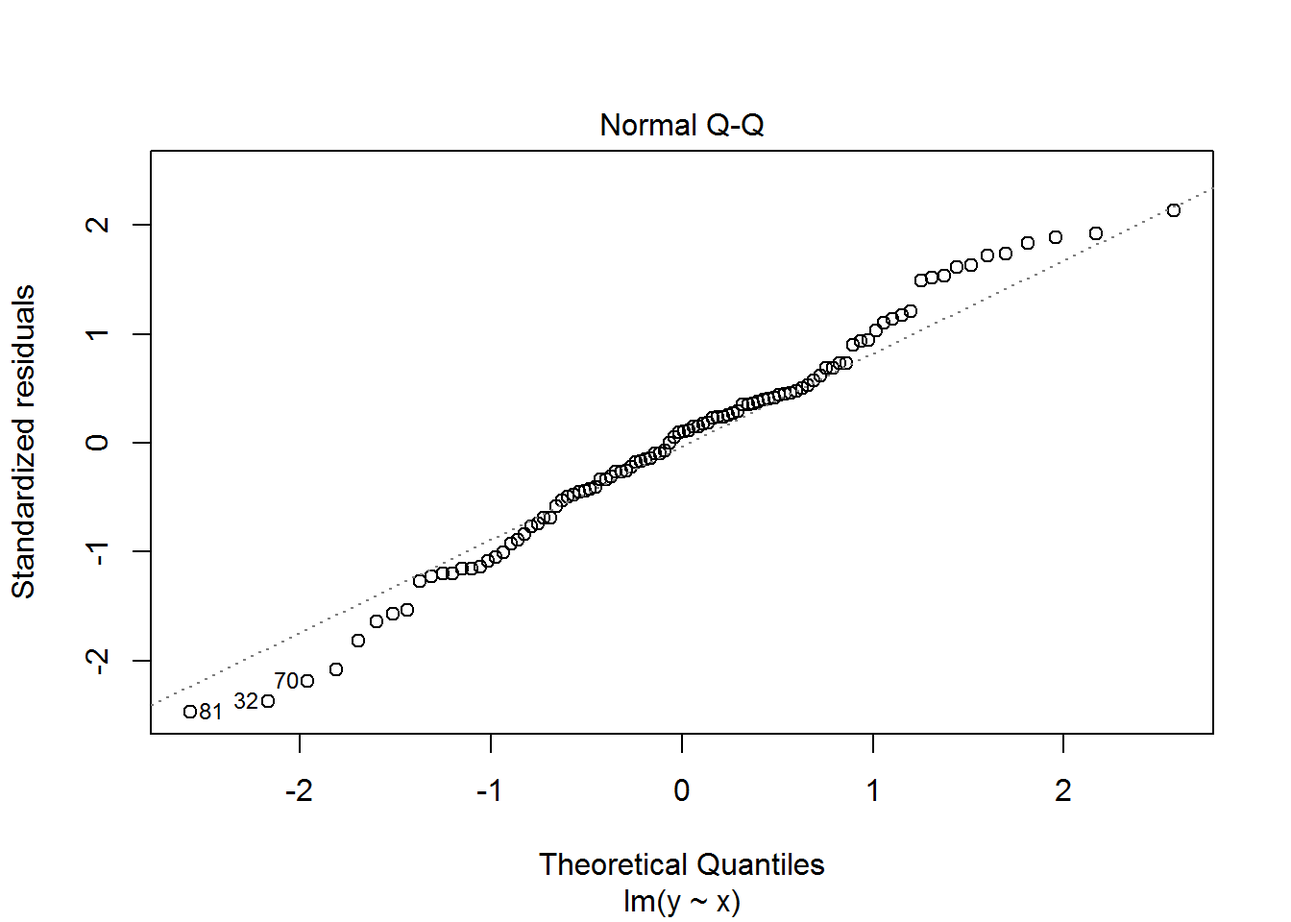
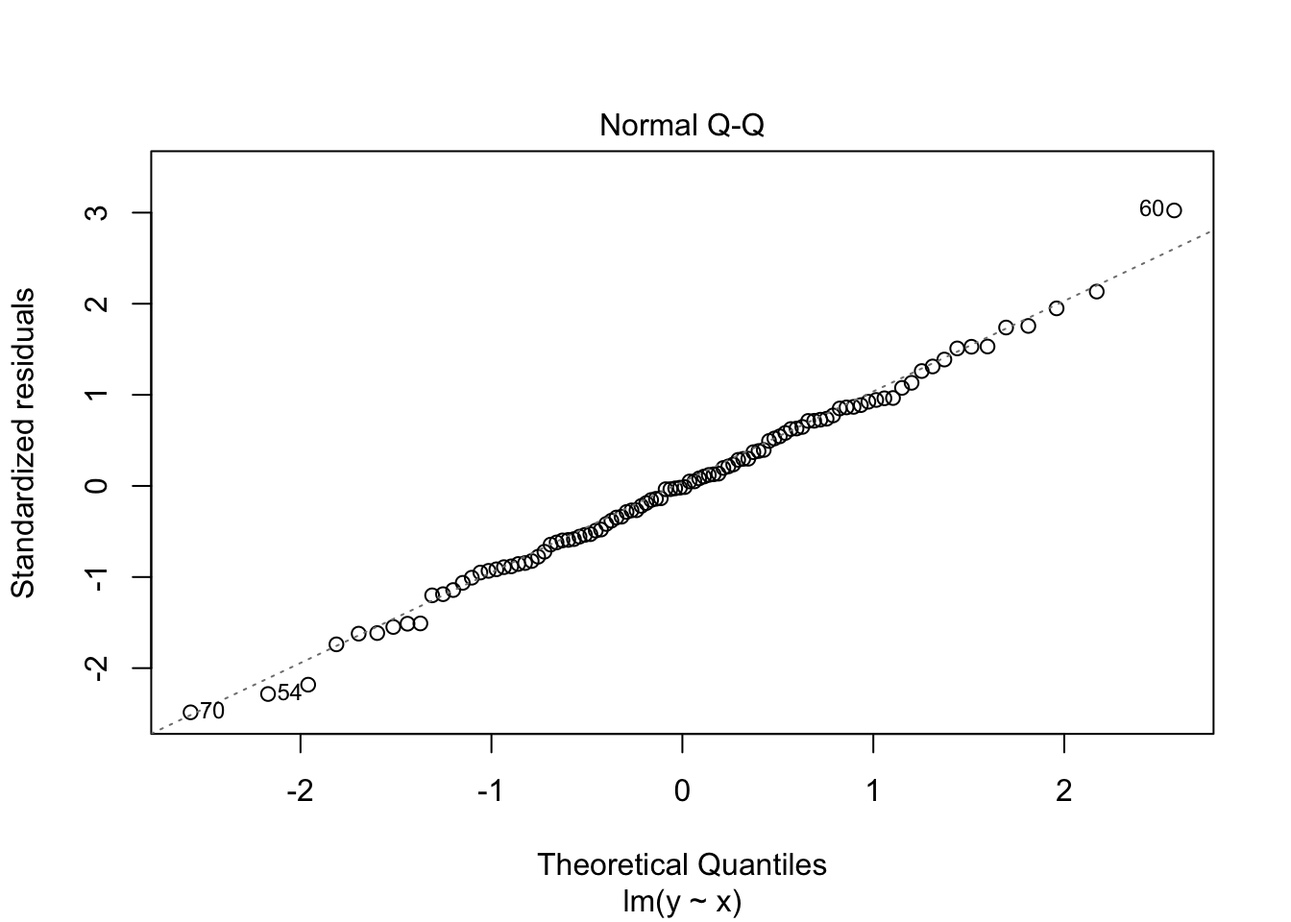
New Version usingr

diff --git a/docs/basic-r-usage.html b/docs/basic-r-usage.html
@@ -6,9 +6,8 @@
   <meta charset="UTF-8">
   <meta http-equiv="X-UA-Compatible" content="IE=edge">
   <title>Research Tools for Social Scientists</title>
-  <meta content="text/html; charset=UTF-8" http-equiv="Content-Type">
   <meta name="description" content="Research Tools for Social Scientists">
-  <meta name="generator" content="bookdown 0.1 and GitBook 2.6.7">
+  <meta name="generator" content="bookdown 0.5 and GitBook 2.6.7">
 
   <meta property="og:title" content="Research Tools for Social Scientists" />
   <meta property="og:type" content="book" />
@@ -25,22 +24,16 @@
 
 <meta name="author" content="Thomas de Graaff">
 
-<meta name="date" content="2016-10-19">
 
-<script type="text/x-mathjax-config">
-MathJax.Hub.Config({
-  TeX: { equationNumbers: { autoNumber: "AMS" } }
-});
-</script>
+<meta name="date" content="2016-10-19">
 
   <meta name="viewport" content="width=device-width, initial-scale=1">
   <meta name="apple-mobile-web-app-capable" content="yes">
   <meta name="apple-mobile-web-app-status-bar-style" content="black">
   
   
-<link rel="prev" href="introduction.html">
+<link rel="prev" href="why-bother.html">
 <link rel="next" href="digression-linear-regression-and-how-to-apply-it.html">
-
 <script src="libs/jquery-2.2.3/jquery.min.js"></script>
 <link href="libs/gitbook-2.6.7/css/style.css" rel="stylesheet" />
 <link href="libs/gitbook-2.6.7/css/plugin-bookdown.css" rel="stylesheet" />
@@ -54,10 +47,6 @@ MathJax.Hub.Config({
 
 
 
-<script src="libs/htmlwidgets-0.5/htmlwidgets.js"></script>
-<script src="libs/d3-3.5.2/d3.min.js"></script>
-<script src="libs/sankey-1/sankey.js"></script>
-<script src="libs/sankeyNetwork-binding-0.2.8/sankeyNetwork.js"></script>
 
 
 <style type="text/css">
@@ -103,34 +92,38 @@ code > span.in { color: #60a0b0; font-weight: bold; font-style: italic; } /* Inf
 <body>
 
 
+
   <div class="book without-animation with-summary font-size-2 font-family-1" data-basepath=".">
 
     <div class="book-summary">
       <nav role="navigation">
 
 <ul class="summary">
-<li class="chapter" data-level="1" data-path="index.html"><a href="index.html"><i class="fa fa-check"></i><b>1</b> Preface</a></li>
-<li class="chapter" data-level="2" data-path="introduction.html"><a href="introduction.html"><i class="fa fa-check"></i><b>2</b> Introduction</a><ul>
-<li class="chapter" data-level="2.1" data-path="introduction.html"><a href="introduction.html#why-do-we-need-all-this"><i class="fa fa-check"></i><b>2.1</b> Why do we need all this?</a></li>
-<li class="chapter" data-level="2.2" data-path="introduction.html"><a href="introduction.html#why-use-r-and-not-other-applications"><i class="fa fa-check"></i><b>2.2</b> Why use <code>R</code> and not other applications?</a></li>
-<li class="chapter" data-level="2.3" data-path="introduction.html"><a href="introduction.html#regression-analysis-not-again"><i class="fa fa-check"></i><b>2.3</b> Regression analysis: not again!</a></li>
-<li class="chapter" data-level="2.4" data-path="introduction.html"><a href="introduction.html#structure-of-the-book"><i class="fa fa-check"></i><b>2.4</b> Structure of the book</a></li>
+<li class="chapter" data-level="1" data-path="index.html"><a href="index.html"><i class="fa fa-check"></i><b>1</b> Introduction</a><ul>
+<li class="chapter" data-level="1.1" data-path="index.html"><a href="index.html#preface"><i class="fa fa-check"></i><b>1.1</b> Preface</a></li>
+<li class="chapter" data-level="1.2" data-path="index.html"><a href="index.html#where-to-get-r"><i class="fa fa-check"></i><b>1.2</b> Where to get <code>R</code></a></li>
+<li class="chapter" data-level="1.3" data-path="index.html"><a href="index.html#structure-of-the-book"><i class="fa fa-check"></i><b>1.3</b> Structure of the book</a></li>
+</ul></li>
+<li class="chapter" data-level="2" data-path="why-bother.html"><a href="why-bother.html"><i class="fa fa-check"></i><b>2</b> Why bother?</a><ul>
+<li class="chapter" data-level="2.1" data-path="why-bother.html"><a href="why-bother.html#why-do-we-need-all-this"><i class="fa fa-check"></i><b>2.1</b> Why do we need all this?</a></li>
+<li class="chapter" data-level="2.2" data-path="why-bother.html"><a href="why-bother.html#why-use-r-and-not-other-applications"><i class="fa fa-check"></i><b>2.2</b> Why use <code>R</code> and not other applications?</a></li>
+<li class="chapter" data-level="2.3" data-path="why-bother.html"><a href="why-bother.html#r-markdown"><i class="fa fa-check"></i><b>2.3</b> R Markdown</a></li>
+<li class="chapter" data-level="2.4" data-path="why-bother.html"><a href="why-bother.html#regression-analysis-not-again"><i class="fa fa-check"></i><b>2.4</b> Regression analysis: not again!</a></li>
 </ul></li>
 <li class="chapter" data-level="3" data-path="basic-r-usage.html"><a href="basic-r-usage.html"><i class="fa fa-check"></i><b>3</b> Basic <code>R</code> Usage</a><ul>
-<li class="chapter" data-level="3.1" data-path="basic-r-usage.html"><a href="basic-r-usage.html#where-to-get-it"><i class="fa fa-check"></i><b>3.1</b> Where to get it</a></li>
-<li class="chapter" data-level="3.2" data-path="basic-r-usage.html"><a href="basic-r-usage.html#for-absolute-beginners"><i class="fa fa-check"></i><b>3.2</b> For absolute beginners</a></li>
-<li class="chapter" data-level="3.3" data-path="basic-r-usage.html"><a href="basic-r-usage.html#how-to-use-it"><i class="fa fa-check"></i><b>3.3</b> How to use it</a><ul>
-<li class="chapter" data-level="3.3.1" data-path="basic-r-usage.html"><a href="basic-r-usage.html#subsec:scripts"><i class="fa fa-check"></i><b>3.3.1</b> Scripts</a></li>
-<li class="chapter" data-level="3.3.2" data-path="basic-r-usage.html"><a href="basic-r-usage.html#help"><i class="fa fa-check"></i><b>3.3.2</b> Help!</a></li>
-<li class="chapter" data-level="3.3.3" data-path="basic-r-usage.html"><a href="basic-r-usage.html#subsec:packages"><i class="fa fa-check"></i><b>3.3.3</b> Packages</a></li>
-<li class="chapter" data-level="3.3.4" data-path="basic-r-usage.html"><a href="basic-r-usage.html#using-comments"><i class="fa fa-check"></i><b>3.3.4</b> Using comments</a></li>
+<li class="chapter" data-level="3.1" data-path="basic-r-usage.html"><a href="basic-r-usage.html#for-absolute-beginners"><i class="fa fa-check"></i><b>3.1</b> For absolute beginners</a></li>
+<li class="chapter" data-level="3.2" data-path="basic-r-usage.html"><a href="basic-r-usage.html#how-to-use-it"><i class="fa fa-check"></i><b>3.2</b> How to use it</a><ul>
+<li class="chapter" data-level="3.2.1" data-path="basic-r-usage.html"><a href="basic-r-usage.html#subsec:scripts"><i class="fa fa-check"></i><b>3.2.1</b> Scripts</a></li>
+<li class="chapter" data-level="3.2.2" data-path="basic-r-usage.html"><a href="basic-r-usage.html#help"><i class="fa fa-check"></i><b>3.2.2</b> Help!</a></li>
+<li class="chapter" data-level="3.2.3" data-path="basic-r-usage.html"><a href="basic-r-usage.html#subsec:packages"><i class="fa fa-check"></i><b>3.2.3</b> Packages</a></li>
+<li class="chapter" data-level="3.2.4" data-path="basic-r-usage.html"><a href="basic-r-usage.html#using-comments"><i class="fa fa-check"></i><b>3.2.4</b> Using comments</a></li>
 </ul></li>
-<li class="chapter" data-level="3.4" data-path="basic-r-usage.html"><a href="basic-r-usage.html#reading-and-writing-data"><i class="fa fa-check"></i><b>3.4</b> Reading and writing data</a></li>
-<li class="chapter" data-level="3.5" data-path="basic-r-usage.html"><a href="basic-r-usage.html#ehmmm-dataframes"><i class="fa fa-check"></i><b>3.5</b> Ehmmm, dataframes</a></li>
-<li class="chapter" data-level="3.6" data-path="basic-r-usage.html"><a href="basic-r-usage.html#functions"><i class="fa fa-check"></i><b>3.6</b> Functions</a></li>
-<li class="chapter" data-level="3.7" data-path="basic-r-usage.html"><a href="basic-r-usage.html#regression-modeling"><i class="fa fa-check"></i><b>3.7</b> Regression modeling</a></li>
-<li class="chapter" data-level="3.8" data-path="basic-r-usage.html"><a href="basic-r-usage.html#making-plots"><i class="fa fa-check"></i><b>3.8</b> Making plots</a></li>
-<li class="chapter" data-level="3.9" data-path="basic-r-usage.html"><a href="basic-r-usage.html#recap"><i class="fa fa-check"></i><b>3.9</b> Recap</a></li>
+<li class="chapter" data-level="3.3" data-path="basic-r-usage.html"><a href="basic-r-usage.html#reading-and-writing-data"><i class="fa fa-check"></i><b>3.3</b> Reading and writing data</a></li>
+<li class="chapter" data-level="3.4" data-path="basic-r-usage.html"><a href="basic-r-usage.html#ehmmm-dataframes"><i class="fa fa-check"></i><b>3.4</b> Ehmmm, dataframes</a></li>
+<li class="chapter" data-level="3.5" data-path="basic-r-usage.html"><a href="basic-r-usage.html#functions"><i class="fa fa-check"></i><b>3.5</b> Functions</a></li>
+<li class="chapter" data-level="3.6" data-path="basic-r-usage.html"><a href="basic-r-usage.html#regression-modeling"><i class="fa fa-check"></i><b>3.6</b> Regression modeling</a></li>
+<li class="chapter" data-level="3.7" data-path="basic-r-usage.html"><a href="basic-r-usage.html#making-plots"><i class="fa fa-check"></i><b>3.7</b> Making plots</a></li>
+<li class="chapter" data-level="3.8" data-path="basic-r-usage.html"><a href="basic-r-usage.html#recap"><i class="fa fa-check"></i><b>3.8</b> Recap</a></li>
 </ul></li>
 <li class="chapter" data-level="4" data-path="digression-linear-regression-and-how-to-apply-it.html"><a href="digression-linear-regression-and-how-to-apply-it.html"><i class="fa fa-check"></i><b>4</b> Digression: Linear Regression and how to apply it</a><ul>
 <li class="chapter" data-level="4.1" data-path="digression-linear-regression-and-how-to-apply-it.html"><a href="digression-linear-regression-and-how-to-apply-it.html#sec:theory"><i class="fa fa-check"></i><b>4.1</b> Theoretical background</a><ul>
@@ -182,13 +175,8 @@ code > span.in { color: #60a0b0; font-weight: bold; font-style: italic; } /* Inf
 <span class="kw">library</span>(<span class="st">&quot;ggplot2&quot;</span>)
 <span class="kw">library</span>(<span class="st">&quot;dplyr&quot;</span>)</code></pre></div>
 <p>The <code>R</code> programming language and software environment for statistical computing is an implementation of the proprietary <code>S</code> programming language by Ross Ithaka and Robert Gentleman in 1992. It quickly gained in popularity (see, e.g, this Nature article from 2014 <a href="http://www.nature.com/news/programming-tools-adventures-with-r-1.16609">Programming tools: Adventures with R</a>) and now has more than 8,000 user contributed packages (see as well the blog piece <a href="https://www.r-bloggers.com/on-the-growth-of-cran-packages/">On the growth of CRAN packages</a>).</p>
-<div id="where-to-get-it" class="section level2">
-<h2><span class="header-section-number">3.1</span> Where to get it</h2>
-<p>First, you need to install <code>R</code> itself. You can do this by downloading this from <a href="http://cran.xl-mirror.nl/">CRAN</a> (we choose here the server from the Netherlands). Choose your appropriate operating system, choose the <code>base</code> system, download <code>R</code> and install it. That’s it!</p>
-<p>The base distribution of <code>R</code> comes with a built-in editor, where you can write your script (more about scripts in subsection <a href="basic-r-usage.html#subsec:scripts">3.3.1</a>). This editor is however <em>very</em> basic. Therefore, it is very much advised that you download and install the Open Source editor <a href="https://www.rstudio.com/products/rstudio/download/"><code>RStudio</code></a> as well. Again, choose your operating system and just install the latest version. The very short video (1.5 minutes) on RStudio’s <a href="https://www.rstudio.com/products/rstudio/">website</a> gives an overview of the <em>basic</em> features (it can do quite some more stuff).</p>
-</div>
 <div id="for-absolute-beginners" class="section level2">
-<h2><span class="header-section-number">3.2</span> For absolute beginners</h2>
+<h2><span class="header-section-number">3.1</span> For absolute beginners</h2>
 <p>At the moment there are <em>many</em> tutorials, blogs, youtube clips, and background materials about using <code>R</code> on the internet. I therefore do not intend to write a complete handbook, but focus instead on what I need for my courses. Moreover, I do not intend to teach the very basic stuff. There is very good tutorial package out there called Swirl (see as well the website: <a href="http://swirlstats.com/students.html" class="uri">http://swirlstats.com/students.html</a>). I very much recommend using this package for absolute beginners. The way to do this is rather simple. First install the package by typing:</p>
 <div class="sourceCode"><pre class="sourceCode r"><code class="sourceCode r"><span class="kw">install.packages</span>(<span class="st">&quot;swirl&quot;</span>)</code></pre></div>
 <p>then start Swirl by first loading the package:</p>
@@ -198,22 +186,22 @@ code > span.in { color: #60a0b0; font-weight: bold; font-style: italic; } /* Inf
 <p>In the first menu choose <code>R Programming</code>. Now, there are 15 lessons. I find the first four the most useful (Basic Building Block, Workspace and Files, Sequences of Numbers, Vectors), but others are very useful as well to go through. The command <code>main()</code> by the way brings you always back to the main menu, and do not go for the credits on coursera (that is now a paid online course).</p>
 </div>
 <div id="how-to-use-it" class="section level2">
-<h2><span class="header-section-number">3.3</span> How to use it</h2>
+<h2><span class="header-section-number">3.2</span> How to use it</h2>
 <p><code>R</code> is truly a programming language in the sense that there is no graphical user interface (GUI) involved. You need to type your own commands. And for beginners this sort of sucks. It seems slower, you have no idea which commands to type in, and you frequently make many mistakes. However, when you start to use it more, speed of getting things done goes up (sometimes exponentially), you have a better grasp on the basic commands, and the number of mistakes go down. In contrast with programs such as <code>Excel</code> or <code>SPSS</code>, there are two big differences: (<em>i</em>) you use scripts and (<em>ii</em>) you make frequently use of packages which are essentially written by other <code>R</code> users.</p>
 <div id="subsec:scripts" class="section level3">
-<h3><span class="header-section-number">3.3.1</span> Scripts</h3>
+<h3><span class="header-section-number">3.2.1</span> Scripts</h3>
 <p>The use of scripts or program files is somewhat alien to most. Although <code>Stata</code> also makes use of so-called <code>do</code> files. You start a new script by clicking on File &gt; New Script (<code>R</code> editor) or File &gt; New File &gt; New Script (<code>RStudio</code>). You now have a new <em>empty</em> file (which you have to save from time to time). If you fill in this file with commands, you are actually programming. The <strong>huge</strong> benefit of this procedure is that you record what you have done and that you can easily change something.</p>
 <p>As an example, assume that somebody gives you a dataset with 2 variables and ask you to analyse this dataset. With <code>SPSS</code> you read this dataset in and then click on various butttons so you get some output. Now, assume further that this person actually has forgotten a variable (this happens more often than you think) and gives you a new dataset with 3 variables. Then you have to do all the clicking again (and hopefully you remembered on which buttons you actually clicked).</p>
 <p>When you have a script file you only have to change the code in 1 or 2 places and run it all again. No sweat! So, writing up all the commmands and save it for later, might cost you some time in the <strong>beginning</strong>, but there are <strong>huge</strong> time savers later on! To run a script you simply need to press the button Edit &gt; Run all (<code>R</code> editor) or Code &gt; Run Region &gt; Run All (<code>RStudio</code>). Nobody does that however, because there are numerous Keyboard Shortcuts (I advise you to learn them, because they make you considerably faster. Actually, most Keyboard Shortcuts work in a wide variety of editors–even in <code>Word</code>.)</p>
 </div>
 <div id="help" class="section level3">
-<h3><span class="header-section-number">3.3.2</span> Help!</h3>
+<h3><span class="header-section-number">3.2.2</span> Help!</h3>
 <p>Sometimes you have found a command you would think you could use, but you do not know how, then you need to use <code>?</code> operator in front of the command. For instance, you know that the command <code>c()</code> could be useful, but how? Then type:</p>
 <div class="sourceCode"><pre class="sourceCode r"><code class="sourceCode r">?<span class="kw">c</span>()</code></pre></div>
 <p>And the appropiate documentation will pop up.</p>
 </div>
 <div id="subsec:packages" class="section level3">
-<h3><span class="header-section-number">3.3.3</span> Packages</h3>
+<h3><span class="header-section-number">3.2.3</span> Packages</h3>
 <p><code>R</code> (as many other software applications nowadays) depends heavily on packages written by other parties, usually users of <code>R</code>. There are now many packages out there. You can find the ‘official’ ones on <a href="https://cran.r-project.org/web/packages/available_packages_by_name.html">the CRAN website</a>, but there are many more. Packages have to be installed (both <code>R</code> editor and <code>RStudio</code> have a separate package manager) and afterwards loaded. Say, for instance we want to use the awesome <code>ggplot2</code> package (a package to make plots look nice, actually to make more elaborate plots but anyway), then to install and load the package we give the commands:</p>
 <div class="sourceCode"><pre class="sourceCode r"><code class="sourceCode r"><span class="kw">install.packages</span>(<span class="st">&quot;ggplot2&quot;</span>)
 <span class="kw">library</span>(<span class="st">&quot;ggplot2&quot;</span>)</code></pre></div>
@@ -221,13 +209,13 @@ code > span.in { color: #60a0b0; font-weight: bold; font-style: italic; } /* Inf
 <p>Gradually, we come across some useful packages. Those we will use in a chapter will always be listed at the start of the chapter.</p>
 </div>
 <div id="using-comments" class="section level3">
-<h3><span class="header-section-number">3.3.4</span> Using comments</h3>
+<h3><span class="header-section-number">3.2.4</span> Using comments</h3>
 <p>A final word in this section about the use of comments. <strong>Do it!</strong>. Really, it will make your future life much easier if you have documented what you have done. You can insert comments by using the <code>#</code> operator (everything after the hashtag is a comment), so, e.g.,</p>
 <div class="sourceCode"><pre class="sourceCode r"><code class="sourceCode r"><span class="dv">2+2</span> <span class="co"># always wanted to know about the outcome, but were afraid to ask</span></code></pre></div>
 </div>
 </div>
 <div id="reading-and-writing-data" class="section level2">
-<h2><span class="header-section-number">3.4</span> Reading and writing data</h2>
+<h2><span class="header-section-number">3.3</span> Reading and writing data</h2>
 <p>To properly do statistics one needs data (duh!). Luckily, there are numerous ways to get data in <code>R</code>.</p>
 <p>When you just have a <code>csv</code> text file (comma separated file), it is easy, you just type:</p>
 <div class="sourceCode"><pre class="sourceCode r"><code class="sourceCode r">df &lt;-<span class="st"> </span><span class="kw">read.csv</span>(<span class="dt">file=</span><span class="st">&quot;my_data.csv&quot;</span>, <span class="dt">header =</span> <span class="ot">TRUE</span>)</code></pre></div>
@@ -242,7 +230,7 @@ z &lt;-<span class="st"> </span><span class="kw">import</span>(<span class="st">
 <p>and all dataframes <code>x</code>, <code>y</code> <code>z</code> should be identical.</p>
 </div>
 <div id="ehmmm-dataframes" class="section level2">
-<h2><span class="header-section-number">3.5</span> Ehmmm, dataframes</h2>
+<h2><span class="header-section-number">3.4</span> Ehmmm, dataframes</h2>
 <p>I already talked a bit about dataframes, but have not yet explained what they are. Simply, it is your data. Lets construct a simple dataframe:</p>
 <div class="sourceCode"><pre class="sourceCode r"><code class="sourceCode r">Names  &lt;-<span class="st"> </span><span class="kw">c</span>(<span class="st">&quot;Thomas&quot;</span>, <span class="st">&quot;Erik&quot;</span>, <span class="st">&quot;Mark&quot;</span>, <span class="st">&quot;Eveline&quot;</span>)
 Grades &lt;-<span class="st"> </span><span class="kw">c</span>(<span class="dv">5</span>, <span class="dv">8</span>, <span class="fl">6.5</span>, <span class="dv">7</span>)
@@ -298,7 +286,7 @@ df_grades &lt;-<span class="st"> </span><span class="kw">data.frame</span>(Names
 ## 4 Eveline    7.0   TRUE            8.0   1.945910           2.945910</code></pre>
 </div>
 <div id="functions" class="section level2">
-<h2><span class="header-section-number">3.6</span> Functions</h2>
+<h2><span class="header-section-number">3.5</span> Functions</h2>
 <p>I already referred to the concepts of functions above. Everything in <code>R</code> that has the symbols <code>()</code> just behind a word denotes a function. And most things in <code>R</code> are really a function. Examples you have already seen above are <code>c()</code>, <code>head()</code>, and <code>read.csv()</code>. As a user, you can define your own functions. (But always do this before you ‘call’ this function.) Suppose, we want to create a function that calculates the function <span class="math inline">\(z = x^2 + y^2 + 10*x + 12* y - 10\)</span> for every <span class="math inline">\(x\)</span> and <span class="math inline">\(y\)</span> we would like to use. For instance, we can first define the function (let’s call the function ‘zvalue’):</p>
 <div class="sourceCode"><pre class="sourceCode r"><code class="sourceCode r">zvalue &lt;-<span class="st"> </span>function(x,y){
   <span class="kw">return</span>(x^<span class="dv">2</span> +<span class="st"> </span>y^<span class="dv">2</span> +<span class="st"> </span><span class="dv">10</span>*x +<span class="st"> </span><span class="dv">12</span>*<span class="st"> </span>y -<span class="st"> </span><span class="dv">10</span>)
@@ -309,7 +297,7 @@ df_grades &lt;-<span class="st"> </span><span class="kw">data.frame</span>(Names
 <pre><code>## [1] 42</code></pre>
 </div>
 <div id="regression-modeling" class="section level2">
-<h2><span class="header-section-number">3.7</span> Regression modeling</h2>
+<h2><span class="header-section-number">3.6</span> Regression modeling</h2>
 <p>Before we start laying-out how to do regression modeling in <code>R</code>, we first need data. And for this purpose we will simulate our data by the following commands:</p>
 <div class="sourceCode"><pre class="sourceCode r"><code class="sourceCode r">x &lt;-<span class="st"> </span><span class="kw">runif</span>(<span class="dv">100</span>, <span class="dt">min =</span> <span class="dv">0</span>, <span class="dt">max =</span> <span class="dv">1</span>) <span class="co"># create 100 uniformly distributed numbers in interval (0,1)</span>
 y &lt;-<span class="st"> </span><span class="dv">2</span> +<span class="st"> </span><span class="dv">6</span>*x +<span class="st"> </span><span class="kw">rnorm</span>(<span class="dv">100</span>, <span class="dt">mean =</span> <span class="dv">0</span>, <span class="dt">sd =</span> <span class="dv">1</span>) <span class="co"># rnorm stands for the normal distribution</span>
@@ -320,13 +308,13 @@ y_i = 2 + 6 x_i + \epsilon_i,
 \]</span> where <span class="math inline">\(\epsilon_i\)</span> is standard normally distributed (as I will explain later in Section <a href="digression-linear-regression-and-how-to-apply-it.html#sec:theory">4.1</a> this is for convenience but <strong>not</strong> absolutely needed to do linear regression).</p>
 <p>checking this with</p>
 <div class="sourceCode"><pre class="sourceCode r"><code class="sourceCode r"><span class="kw">head</span>(df)</code></pre></div>
-<pre><code>##          y          x
-## 1 6.983062 0.60285022
-## 2 1.910385 0.43377539
-## 3 4.588142 0.30021230
-## 4 2.787512 0.09442241
-## 5 5.270725 0.46856815
-## 6 7.186221 0.78741360</code></pre>
+<pre><code>##          y         x
+## 1 7.123982 0.7885475
+## 2 4.119386 0.1347265
+## 3 5.632046 0.9044581
+## 4 3.313482 0.3686373
+## 5 3.997021 0.2802013
+## 6 3.181046 0.2228008</code></pre>
 <p>indeed shows the first 6 combination of <span class="math inline">\(x\)</span> and <span class="math inline">\(y\)</span>. If we now perform a linear regression, then we expect that the estimated intercept should be very close to 2 and the estimated slope parameter should be very close to 6. In <code>R</code> we have the command <code>lm()</code> (from linear model) to do this as follows:</p>
 <div class="sourceCode"><pre class="sourceCode r"><code class="sourceCode r">linear_model &lt;-<span class="st"> </span><span class="kw">lm</span>(y~x, <span class="dt">data =</span> df)</code></pre></div>
 <p>We now have performed a regression of <span class="math inline">\(y\)</span> onto <span class="math inline">\(x\)</span>, using the data <code>df</code> and save the result in a variable called linear_model. First note the first part of the <code>lm(,)</code> expression. <code>y~x</code> means that <code>y</code> is the left-hand side variable and <code>x</code> the righ-hand side variable (if we have more variables, the formula becomes something as<code>y~x+u+v+w+z</code>). The second part of the <code>lm(,)</code> expression denotes the specific dataframe to be used. Namely, in <code>R</code> you can have multiple dataframes so you have to specify which one is to be used.</p>
@@ -338,7 +326,7 @@ y_i = 2 + 6 x_i + \epsilon_i,
 ## 
 ## Coefficients:
 ## (Intercept)            x  
-##       2.030        5.857</code></pre>
+##       2.210        5.593</code></pre>
 <p>But, you want more, right? Standard errors, t-statistics, R-squares, the whole lot. For this, you need the <code>summary()</code> command, which gives you the following outcome</p>
 <div class="sourceCode"><pre class="sourceCode r"><code class="sourceCode r"><span class="kw">summary</span>(linear_model)</code></pre></div>
 <pre><code>## 
@@ -346,26 +334,26 @@ y_i = 2 + 6 x_i + \epsilon_i,
 ## lm(formula = y ~ x, data = df)
 ## 
 ## Residuals:
-##     Min      1Q  Median      3Q     Max 
-## -3.4639 -0.6486  0.0749  0.7960  3.1671 
+##      Min       1Q   Median       3Q      Max 
+## -2.53629 -0.64312 -0.01634  0.73202  3.10773 
 ## 
 ## Coefficients:
 ##             Estimate Std. Error t value Pr(&gt;|t|)    
-## (Intercept)   2.0301     0.2327   8.725 7.02e-14 ***
-## x             5.8573     0.3905  15.001  &lt; 2e-16 ***
+## (Intercept)   2.2099     0.2011   10.99   &lt;2e-16 ***
+## x             5.5935     0.3841   14.56   &lt;2e-16 ***
 ## ---
 ## Signif. codes:  0 &#39;***&#39; 0.001 &#39;**&#39; 0.01 &#39;*&#39; 0.05 &#39;.&#39; 0.1 &#39; &#39; 1
 ## 
-## Residual standard error: 1.091 on 98 degrees of freedom
-## Multiple R-squared:  0.6966, Adjusted R-squared:  0.6935 
-## F-statistic:   225 on 1 and 98 DF,  p-value: &lt; 2.2e-16</code></pre>
+## Residual standard error: 1.034 on 98 degrees of freedom
+## Multiple R-squared:  0.6839, Adjusted R-squared:  0.6807 
+## F-statistic: 212.1 on 1 and 98 DF,  p-value: &lt; 2.2e-16</code></pre>
 <p>Interestingly, our parameters are close to 2 and 6, but not that close (which happens with a limited amount of observations, notice as well the relatively large standard errors). So, the command <code>summary()</code> gives all the needed statistical output, but what about regression diagnostics. For this you can ask for a plot of the variable linear_model</p>
 <div class="sourceCode"><pre class="sourceCode r"><code class="sourceCode r"><span class="kw">plot</span>(linear_model)</code></pre></div>
 <p><img src="unnamed-chunk-25-1.png" width="672" /><img src="unnamed-chunk-25-2.png" width="672" /><img src="unnamed-chunk-25-3.png" width="672" /><img src="unnamed-chunk-25-4.png" width="672" /></p>
 <p>And that is basically it, at least for the basics. There is much more to say about the <code>lm()</code> command, but that is for later.</p>
 </div>
 <div id="making-plots" class="section level2">
-<h2><span class="header-section-number">3.8</span> Making plots</h2>
+<h2><span class="header-section-number">3.7</span> Making plots</h2>
 <p>Where <code>R</code> truly shines is in making plots, diagrams, histograms, etcetera. The first thing with data you want to do is to make a scatterplot. With our <span class="math inline">\(x\)</span> and <span class="math inline">\(y\)</span> data this can be easily done by:</p>
 <div class="sourceCode"><pre class="sourceCode r"><code class="sourceCode r"><span class="kw">plot</span>(x,y)</code></pre></div>
 <p><img src="unnamed-chunk-26-1.png" width="672" /></p>
@@ -381,7 +369,7 @@ y_i = 2 + 6 x_i + \epsilon_i,
 <p><img src="unnamed-chunk-29-1.png" width="672" /></p>
 </div>
 <div id="recap" class="section level2">
-<h2><span class="header-section-number">3.9</span> Recap</h2>
+<h2><span class="header-section-number">3.8</span> Recap</h2>
 <p>For the absolute beginner <code>R</code> is huge and daunting. You need to learn by taking small steps and by practicing (a lot). Do not aim immediately at big and complex projects but start small and at the basics. You will then learn that you quickly make progress and at a certain time even become efficienter than when using mousing driven tools (clicking) as <code>Excel</code> or <code>SPSS</code>. In later chapters I dive in to some more detailed topics, and hopefully the material provides you with a background solid enough to understand and work with those topics using <code>R</code>.</p>
 
 </div>
@@ -391,9 +379,10 @@ y_i = 2 + 6 x_i + \epsilon_i,
           </div>
         </div>
       </div>
-<a href="introduction.html" class="navigation navigation-prev " aria-label="Previous page"><i class="fa fa-angle-left"></i></a>
-<a href="digression-linear-regression-and-how-to-apply-it.html" class="navigation navigation-next " aria-label="Next page""><i class="fa fa-angle-right"></i></a>
-
+<a href="why-bother.html" class="navigation navigation-prev " aria-label="Previous page"><i class="fa fa-angle-left"></i></a>
+<a href="digression-linear-regression-and-how-to-apply-it.html" class="navigation navigation-next " aria-label="Next page"><i class="fa fa-angle-right"></i></a>
+    </div>
+  </div>
 <script src="libs/gitbook-2.6.7/js/app.min.js"></script>
 <script src="libs/gitbook-2.6.7/js/lunr.js"></script>
 <script src="libs/gitbook-2.6.7/js/plugin-search.js"></script>
@@ -402,9 +391,10 @@ y_i = 2 + 6 x_i + \epsilon_i,
 <script src="libs/gitbook-2.6.7/js/plugin-bookdown.js"></script>
 <script src="libs/gitbook-2.6.7/js/jquery.highlight.js"></script>
 <script>
-require(["gitbook"], function(gitbook) {
+gitbook.require(["gitbook"], function(gitbook) {
 gitbook.start({
 "sharing": {
+"github": false,
 "facebook": true,
 "twitter": true,
 "google": false,
@@ -435,7 +425,7 @@ gitbook.start({
   (function () {
     var script = document.createElement("script");
     script.type = "text/javascript";
-    script.src  = "https://cdn.mathjax.org/mathjax/latest/MathJax.js?config=TeX-AMS-MML_HTMLorMML";
+    script.src  = "https://cdn.bootcss.com/mathjax/2.7.1/MathJax.js?config=TeX-MML-AM_CHTML";
     if (location.protocol !== "file:" && /^https?:/.test(script.src))
       script.src  = script.src.replace(/^https?:/, '');
     document.getElementsByTagName("head")[0].appendChild(script);
